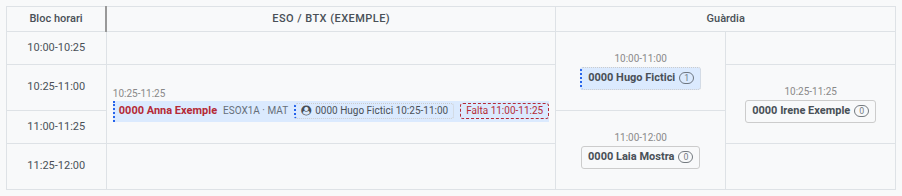
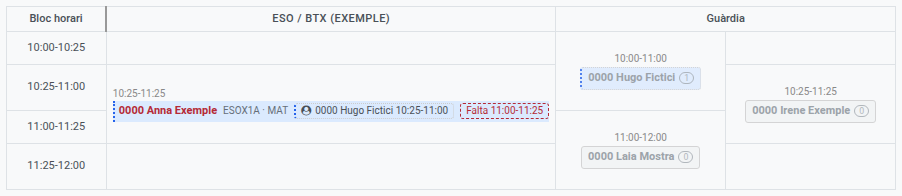
770: the guard duty board greys out the guards the user cannot assign (another area's, or anybody's for a teacher who organises no absences) and strikes out those who cannot cover

Changed region(s): [[0.6519, 0.7653, 0.7761, 0.8265], [0.6519, 0.3673, 0.7761, 0.4286], [0.8071, 0.5204, 0.9623, 0.5816]]

diff --git a/static/src/js/backend/guard_duty_board.js b/static/src/js/backend/guard_duty_board.js
@@ -373,16 +373,39 @@ export class GuardDutyBoard extends Component {
         return _t("(WC)");
     }
 
-    get markPresentTooltip() {
-        return _t("Not checked in: say they are in the centre");
+    // What the user can do with a guard's badge then (issues #725, #770): click it (support, check
+    // them in), assign them from an absence's row, nothing because they are not the user's to assign
+    // (another area, or the user organises nobody's absences), or nothing because they cannot cover.
+    guardStateClass(guard) {
+        if (guard.can_support || guard.can_mark_present) {
+            return " o_guard_board_guard_supportable";
+        }
+        if (guard.available) {
+            return "";
+        }
+        return guard.idle ? " o_guard_board_guard_idle" : " o_guard_board_guard_disabled";
     }
 
-    get supportTooltip() {
-        return _t("Send as support to a teacher in class");
-    }
-
-    get availableTooltip() {
-        return _t("Available: assign them from the row of an absence");
+    guardTooltip(guard) {
+        if (guard.busy) {
+            return guard.busy;
+        }
+        if (guard.can_mark_present) {
+            return _t("Not checked in: say they are in the centre");
+        }
+        if (guard.can_support) {
+            return _t("Send as support to a teacher in class");
+        }
+        if (guard.available) {
+            return _t("Available: assign them from the row of an absence");
+        }
+        if (guard.idle === "other_area") {
+            return _t("Another area's guard: only whoever organises that area can assign them");
+        }
+        if (guard.idle === "not_yours") {
+            return _t("Free on guard");
+        }
+        return false;
     }
 
     get coverCountTitle() {

diff --git a/static/src/css/backend/guard_duty_board.css b/static/src/css/backend/guard_duty_board.css
@@ -452,17 +452,30 @@
     cursor: pointer;
 }
 
-/* Issue #725: on the absences table, a guard the user can do nothing with (send as support, or
-   be themselves while free on guard) looks disabled, so the ones they can are told apart at a
-   glance. A guard covering a class keeps its cover colour, which pairs it with the class. */
+/* Issue #725: on the absences table, a guard who cannot cover anything then (away, not checked in,
+   busy) looks disabled, so the ones who can are told apart at a glance. A guard covering a class
+   keeps its cover colour, which pairs it with the class. */
 .o_guard_board_guard_badge.o_guard_board_guard_disabled {
     color: #adb5bd;
     opacity: 0.8;
+    /* Struck out too, so it is not mistaken for another area's guard (issue #770). */
+    text-decoration: line-through;
 }
 
 .o_guard_board_guard_badge.o_guard_board_guard_disabled:not([class*="o_guard_board_cover_"]) {
     background: #f1f3f5;
     border: 1px dashed #ced4da;
+}
+
+/* Issue #770: a free guard who is not the user's to assign (another area's, or the user organises
+   nobody's absences) is greyed out too, but without the dashed border of one who cannot cover. */
+.o_guard_board_guard_badge.o_guard_board_guard_idle {
+    color: #868e96;
+    opacity: 0.8;
+}
+
+.o_guard_board_guard_badge.o_guard_board_guard_idle:not([class*="o_guard_board_cover_"]) {
+    background: #f1f3f5;
 }
 
 /* A guard who is with a group through an internal arrangement: struck out of the guard column,

diff --git a/static/tests/tours/guard_board_unchecked_tour.js b/static/tests/tours/guard_board_unchecked_tour.js
@@ -148,8 +148,14 @@ registry.category("web_tour.tours").add("ems_guard_board_unchecked_guard", {
             run: "click",
         },
         {
-            trigger: `${currentLesson}.o_guard_board_guard_cell .o_guard_board_guard_badge:contains('Tour Unchecked Late Guard'):not(:has(.fa-clock-o))`,
-            content: "Checked in: no clock any more",
+            trigger: `${currentLesson}.o_guard_board_guard_cell .o_guard_board_guard_badge.o_guard_board_guard_idle:contains('Tour Unchecked Late Guard'):not(:has(.fa-clock-o))`,
+            // Issue #770: free now, but a plain teacher cannot assign them, so greyed out (not
+            // struck out like a guard who cannot cover); only the user's own badge is available.
+            content: "Checked in: no clock any more, greyed out for a teacher who assigns nobody",
+        },
+        {
+            trigger: `${currentLesson}.o_guard_board_guard_cell .o_guard_board_guard_badge:contains('Tour Unchecked Guard'):not(.o_guard_board_guard_idle):not(.o_guard_board_guard_disabled)`,
+            content: "The user's own badge stays available",
         },
     ],
 });

diff --git a/tests/test_guard_support.py b/tests/test_guard_support.py
@@ -97,24 +97,32 @@ class TestGuardSupport(AbsenceCoverageCase):
         with self.assertRaises(UserError):
             self._support(user=self.eso_chief, hour_from=9, hour_to=10)
 
-    def test_only_a_guard_who_cannot_cover_looks_disabled(self):
-        """A badge looks disabled only when the guard cannot cover anything then (away, not checked
-        in, busy): a free guard is available to everybody, though only whoever manages a class may
-        send them as support, and only the user themselves takes a class from their own badge."""
+    def test_only_a_guard_the_user_can_assign_looks_available(self):
+        """A badge looks available only when the user can do something with that guard then
+        (issue #770): send them to cover a class (whoever organises absences, only their own area's
+        guards, as in the absence's candidates, issue #721) or, for the guard themselves, take a
+        class. A guard who cannot cover anything then (away, not checked in, busy) never does."""
+        self._two_areas()
         self._morning()
+        self.teacher_guard.department_id = self.department  # VET; teacher_guard_2 is ESO
 
-        line = self._board_line(user=self.guard_user)
-        guards = self.teacher_guard | self.teacher_guard_2
-        self.assertEqual({badge['id']: (badge['available'], badge['can_support'], badge['is_me_free'])
-                          for badge in line['guards'] if badge['id'] in guards.ids},
-                         {self.teacher_guard.id: (True, False, True), self.teacher_guard_2.id: (True, False, False)})
+        def badges(user):
+            line = self._board_line(user=user)
+            return {badge['id']: (badge['available'], badge['is_me_free'], badge['idle'])
+                    for badge in line['guards'] if badge['id'] in (self.teacher_guard | self.teacher_guard_2).ids}
+
+        # A teacher who organises nobody's absences only takes a class themselves.
+        self.assertEqual(badges(self.guard_user), {
+            self.teacher_guard.id: (True, True, False), self.teacher_guard_2.id: (False, False, 'not_yours')})
+        # Each area's chief, only their own area's guards; the other area's are told apart.
+        self.assertEqual(badges(self.department_chief), {
+            self.teacher_guard.id: (True, False, False), self.teacher_guard_2.id: (False, False, 'other_area')})
+        self.assertEqual(badges(self.eso_chief), {
+            self.teacher_guard.id: (False, False, 'other_area'), self.teacher_guard_2.id: (True, False, False)})
+        # Away: nobody can assign them, not even themselves, and they are not merely idle.
         self._absence(self.teacher_guard, self.day)
-        badge = self._guard(self._board_line(user=self.guard_user), self.teacher_guard)
-        self.assertEqual((badge['available'], badge['is_me_free']), (False, False))
-        # Whoever manages the classes may send the free one as support.
-        line = self._board_line()
-        self.assertTrue(self._guard(line, self.teacher_guard_2)['can_support'])
-        self.assertFalse(self._guard(line, self.teacher_guard_2)['is_me_free'])
+        self.assertEqual(badges(self.guard_user)[self.teacher_guard.id], (False, False, False))
+        self.assertEqual(badges(self.department_chief)[self.teacher_guard.id], (False, False, False))
 
     def test_only_a_class_whose_teacher_is_in_can_be_supported(self):
         self._morning()

diff --git a/models/attendance/guard_duty_board.py b/models/attendance/guard_duty_board.py
@@ -2405,9 +2405,15 @@ class EmsCourseGuardDutyBoard(models.Model):
                 guard['can_support'] = bool(
                     (supportable and employee in line['guard_spans'] and course._can_move_teacher(employee, movable))
                     or (may_support and guard['support_cover_id']))
-                # Free on guard then, so they can be sent to a class (issue #725: only a guard who
-                # cannot cover anything then - away, not checked in, busy - looks disabled).
-                guard['available'] = editable and employee in line['guard_spans']
+                # Free on guard then and the user can assign them (issue #770): whoever organises
+                # absences sends their own area's guards, as in guard_candidates (issue #721), and a
+                # guard takes a class themselves (issue #601). Any other badge looks disabled.
+                free = editable and employee in line['guard_spans']
+                guard['available'] = free and (
+                    employee == me or (may_support and course._can_move_teacher(employee, movable)))
+                # Free but not the user's to assign, and why (issue #770): another area's guard, or
+                # the user organises nobody's absences. Told apart from a guard who cannot cover.
+                guard['idle'] = free and not guard['available'] and ('other_area' if may_support else 'not_yours')
                 # The user themselves, free on guard then: they may take a class (issue #601).
                 guard['is_me_free'] = guard['available'] and employee == me
                 # A guard on duty now who has not checked in (issue #692): whoever is on guard then,

diff --git a/tests/test_guard_board_unchecked.py b/tests/test_guard_board_unchecked.py
@@ -250,8 +250,10 @@ class TestGuardBoardUnchecked(GuardDutyBoardCase):
 
         self.assertEqual(self.Attendance.search([('employee_id', '=', late.id)]).ems_checked_in_by_id, self.guard_user)
         self.assertFalse(badge(self.guard_user)['absence'])
-        # Checked in, they can cover now: their badge no longer looks disabled, to anybody.
-        self.assertTrue(badge(self.other_teacher)['available'])
+        # Checked in, they can cover now: their badge no longer looks disabled to whoever can send
+        # them to a class; a teacher who organises nobody's absences still cannot (issue #770).
+        self.assertTrue(badge(self.department_chief)['available'])
+        self.assertFalse(badge(self.other_teacher)['available'])
 
     def test_only_a_class_in_progress_on_a_teacher_still_not_checked_in(self):
         # Already over: checking them in now would not take it off the table.

diff --git a/docs/en/developers/attendance/guard_duty_board.md b/docs/en/developers/attendance/guard_duty_board.md
@@ -1009,20 +1009,27 @@ flowchart LR
   line (`guard_spans`), may be sent by the user (`_can_move_teacher`, issue #721) and some class of
   the line has its teacher in and is managed by the user; or when the badge is a support already
   given (`support_cover_id`), to show it and remove it.
-- **Which badges look usable.** A badge of the absences table's guard column looks disabled
-  (`o_guard_board_guard_disabled`: pale text, and a grey dashed box unless it carries a cover colour,
-  which keeps pairing it with its class) only when the guard cannot cover anything then and the
-  user cannot act on it either: a guard who is free in that line (`available`, i.e. in
-  `guard_spans` on an editable day) keeps the usual look for everybody, with a tooltip saying they
-  are assigned from an absence's row, even when their own line has nothing to support (a break
-  block); so do badges with `can_support`, and with `can_mark_present`. A guard away, busy with a
-  group or not checked in yet is disabled to whoever cannot check them in. `is_me_free` (the user's
-  own available badge, #601) is `available` restricted to the user. A guard who has not checked in
-  yet today (#692) carries the same clock icon as a "Not checked in" row, on both views, so a
-  disabled badge is not mistaken for a permission problem. While their guard is going on, whoever
-  is on guard then or manages them clicks that badge to say they are in the centre
-  (`can_mark_present`, see "Teachers who have not checked in"); once checked in, the badge is
-  available.
+- **Which badges look usable.** A badge of the absences table's guard column has one of three
+  looks, decided by the client's `guardStateClass()`/`guardTooltip()` from the badge's flags:
+  - **Usable** (the usual look): the user can do something with that guard then. `can_support` and
+    `can_mark_present` make it clickable; `available` means the user can assign them from an
+    absence's row: the guard is free in that line (`guard_spans`, on an editable day) and either is
+    the user themselves (they take a class, #601) or the user may organise absences
+    (`_may_manage_absences()`) and may send that guard (`_can_move_teacher`, #721), the same rule
+    that filters `guard_candidates`. Its tooltip says they are assigned from an absence's row.
+    `is_me_free` (the user's own available badge) is `available` restricted to the user.
+  - **Idle** (`o_guard_board_guard_idle`: grey text on a grey box with the usual solid border,
+    #770): free, but not the user's to assign. `idle` says why, for the tooltip: `'other_area'`
+    (the user organises absences, but this guard is another area's) or `'not_yours'` (the user
+    organises nobody's absences: a plain teacher on guard sees their free colleagues this way).
+  - **Disabled** (`o_guard_board_guard_disabled`: pale text struck through, and a grey dashed box
+    unless it carries a cover colour, which keeps pairing it with its class): the guard cannot cover
+    anything then, being away, busy with a group or not checked in yet (and the user cannot check
+    them in). The strike-through tells it apart from an idle badge at a glance (#770).
+  A guard who has not checked in yet today (#692) carries the same clock icon as a "Not checked in"
+  row, on both views. While their guard is going on, whoever is on guard then or manages them
+  clicks that badge to say they are in the centre (`can_mark_present`, see "Teachers who have not
+  checked in"); once checked in, the badge is usable or idle like any other free guard.
 - **Which classes.** `ems.course._get_support_options(day, hour_from, hour_to, guard)`: the guard's
   part of the period (`_get_guard_candidates()`, so an absent, busy or non-regular guard gets none),
   every lesson overlapping it whose teacher is in (absences and, today, not checked in count as

diff --git a/docs/es/teachers/guard-duty-schedule.md b/docs/es/teachers/guard-duty-schedule.md
@@ -79,7 +79,7 @@ La tabla usa los mismos tramos de tiempo que el horario, con una columna por ár
 - **Una columna por área** — una línea por cada clase que se queda sin docente en esa área: quién falta, y el grupo, la asignatura y el aula que hay que cubrir, dentro de un bloque con la hora de la clase. El patio del área aparece como un bloque "Patio".
 - **Guardia** — los docentes de guardia, agrupados por la franja de su guardia, los mismos que muestra el horario.
 
-En la columna **Guardia**, la casilla de un docente de guardia se ve como siempre mientras está libre para cubrir una clase; la indicación recuerda que se asigna desde la línea de una ausencia. Aparece en gris cuando no puede cubrir nada: falta, aún no ha fichado (también lleva un icono de reloj) o ya está con un grupo (su nombre aparece tachado y la indicación dice con cuál). Quien organiza las ausencias también puede hacer clic en la casilla de un docente de guardia libre para enviarlo a apoyar a un docente que está en clase (consulta [Enviar un docente de guardia de apoyo](../department_chiefs/absences.md#enviar-un-docente-de-guardia-de-apoyo)).
+En la columna **Guardia**, la casilla de un docente de guardia se ve como siempre cuando lo puedes asignar (la indicación recuerda que se asigna desde la línea de una ausencia) y, si tú mismo estás de guardia, la tuya, porque puedes coger una clase. Un docente de guardia libre que no puedes asignar aparece en gris claro: el de otra área (solo lo asigna quien organiza esa área) o cualquier compañero si no organizas ausencias; la indicación lo dice. Un docente de guardia que no puede cubrir nada aparece en gris, con el borde discontinuo y el nombre tachado: falta, aún no ha fichado (también lleva un icono de reloj) o ya está con un grupo (la indicación dice con cuál). Quien organiza las ausencias también puede hacer clic en la casilla de un docente de guardia libre para enviarlo a apoyar a un docente que está en clase (consulta [Enviar un docente de guardia de apoyo](../department_chiefs/absences.md#enviar-un-docente-de-guardia-de-apoyo)).
 
 Así ves de un vistazo qué guardias coinciden con cada clase que hay que cubrir, aunque las dos áreas tengan las clases a horas distintas. Un tramo donde no falta nadie tiene las columnas de área vacías.
 

diff --git a/docs/ca/teachers/guard-duty-schedule.md b/docs/ca/teachers/guard-duty-schedule.md
@@ -79,7 +79,7 @@ La taula fa servir els mateixos trams de temps que l'horari, amb una columna per
 - **Una columna per àrea** — una línia per cada classe que es queda sense docent en aquella àrea: qui falta, i el grup, l'assignatura i l'aula que s'han de cobrir, dins d'un bloc amb l'hora de la classe. El pati de l'àrea surt com un bloc "Pati".
 - **Guàrdia** — els docents de guàrdia, agrupats per la franja de la seva guàrdia, els mateixos que mostra l'horari.
 
-A la columna **Guàrdia**, la casella d'un docent de guàrdia es veu com sempre mentre està lliure per cobrir una classe; la indicació recorda que s'assigna des de la línia d'una absència. Surt en gris quan no pot cobrir res: falta, encara no ha fitxat (també porta una icona de rellotge) o ja és amb un grup (el nom surt ratllat i la indicació diu amb quin). Qui organitza les absències també pot fer clic a la casella d'un docent de guàrdia lliure per enviar-lo a donar suport a un docent que és a classe (vegeu [Enviar un docent de guàrdia de suport](../department_chiefs/absences.md#enviar-un-docent-de-guardia-de-suport)).
+A la columna **Guàrdia**, la casella d'un docent de guàrdia es veu com sempre quan el pots assignar (la indicació recorda que s'assigna des de la línia d'una absència) i, si tu mateix ets de guàrdia, la teva, perquè pots agafar una classe. Un docent de guàrdia lliure que no pots assignar surt en gris clar: el d'una altra àrea (només l'assigna qui organitza aquella àrea) o qualsevol company si no organitzes absències; la indicació ho diu. Un docent de guàrdia que no pot cobrir res surt en gris, amb la vora discontínua i el nom ratllat: falta, encara no ha fitxat (també porta una icona de rellotge) o ja és amb un grup (la indicació diu amb quin). Qui organitza les absències també pot fer clic a la casella d'un docent de guàrdia lliure per enviar-lo a donar suport a un docent que és a classe (vegeu [Enviar un docent de guàrdia de suport](../department_chiefs/absences.md#enviar-un-docent-de-guardia-de-suport)).
 
 Així veus d'un cop d'ull quines guàrdies coincideixen amb cada classe que cal cobrir, encara que les dues àrees tinguin les classes a hores diferents. Un tram on no falta ningú té les columnes d'àrea buides.
 

diff --git a/docs/en/teachers/guard-duty-schedule.md b/docs/en/teachers/guard-duty-schedule.md
@@ -79,7 +79,7 @@ The table uses the same stretches of time as the timetable, with one column per 
 - **One column per area** — one line per class left without a teacher in that area: who is away, and the group, subject and classroom that needs covering, in a block carrying the class's time. The area's break shows as a "Break" block.
 - **Guard duty** — the teachers on guard duty, grouped by the time of their guard duty, the same ones the timetable shows.
 
-In the **Guard duty** column, a guard teacher's box looks as usual while they are free to cover a class then; its tooltip reminds you that they are assigned from the line of an absence. It looks greyed out when they cannot cover anything: they are away, have not checked in yet (it also carries a clock icon), or are already with a group (their name is struck through and the tooltip says with which one). Whoever organises absences can also click a free guard's box to send them to support a teacher who is in class (see [Sending a guard as support](../department_chiefs/absences.md#sending-a-guard-as-support)).
+In the **Guard duty** column, a guard teacher's box looks as usual when you can assign them then (its tooltip reminds you that they are assigned from the line of an absence) and, if you are on guard yourself, on your own box, since you can take a class. A free guard you cannot assign looks light grey: one of another area (only whoever organises that area assigns them), or any colleague if you do not organise absences; its tooltip says so. A guard who cannot cover anything looks greyed out with a dashed border and their name struck through: they are away, have not checked in yet (it also carries a clock icon), or are already with a group (the tooltip says with which one). Whoever organises absences can also click a free guard's box to send them to support a teacher who is in class (see [Sending a guard as support](../department_chiefs/absences.md#sending-a-guard-as-support)).
 
 So you can see at a glance which guard duties line up with each class to cover, even when the two areas run their lessons at different times. A stretch where nobody is missing has empty area columns.
 

diff --git a/changelog/770-guard-board-unassignable-grayed.md b/changelog/770-guard-board-unassignable-grayed.md
@@ -1,0 +1,8 @@
+# Fixes
+
+## Guard duty board greys out the guards you cannot assign (issue #770):
+
+- On the absences table's guard column, a free guard only keeps the usual look when the user can assign them: whoever organises absences sees their own area's guards (the same rule as the absence's list of candidates, issue #721), and a guard on duty sees their own badge, since they can take a class themselves (issue #601). Until now every free guard looked usable to everybody, although clicking them did nothing and another area's guards could not be assigned.
+- A free guard the user cannot assign is shown light grey with a solid border; its tooltip says why: another area's guard (only whoever organises that area assigns them), or simply "Free on guard" for a teacher who organises nobody's absences. The server sends the reason as the new badge flag `idle` (`other_area` / `not_yours`).
+- A guard who cannot cover anything then (away, not checked in, busy with a group) keeps the grey dashed box and is now also struck through, so it is not mistaken for another area's guard.
+- Badge class and tooltip moved from the template into the component (`guardStateClass()`, `guardTooltip()`); tests, the unchecked-guard tour, the developer doc, the teachers' manual (ca/es/en), three of its screenshots and the ca/es translations updated.
